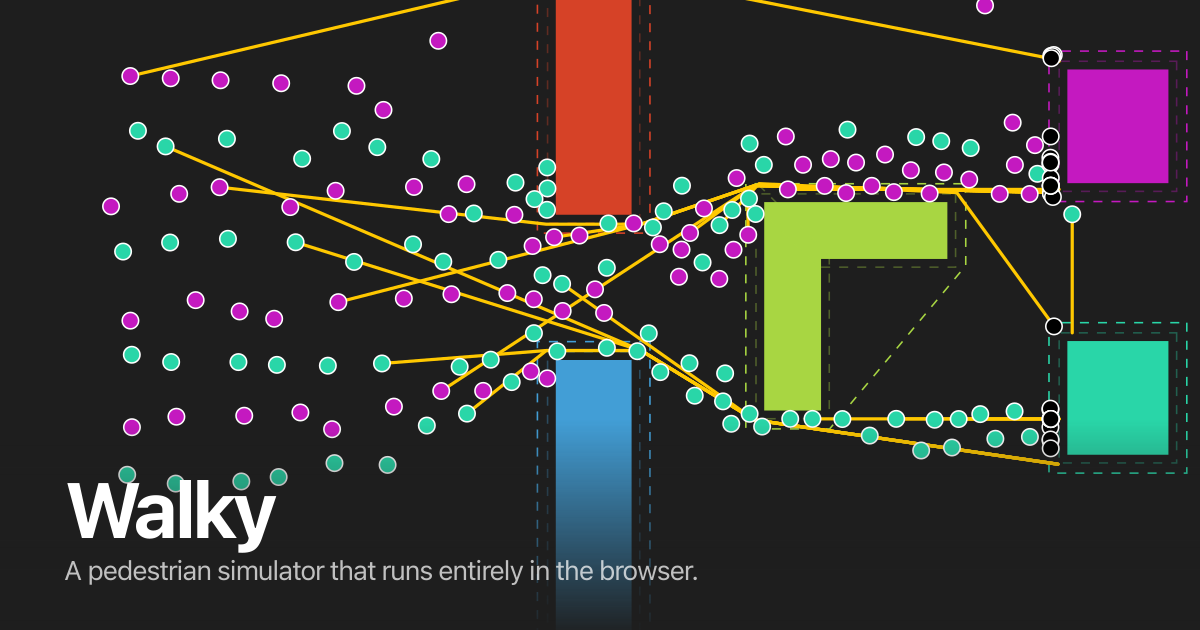
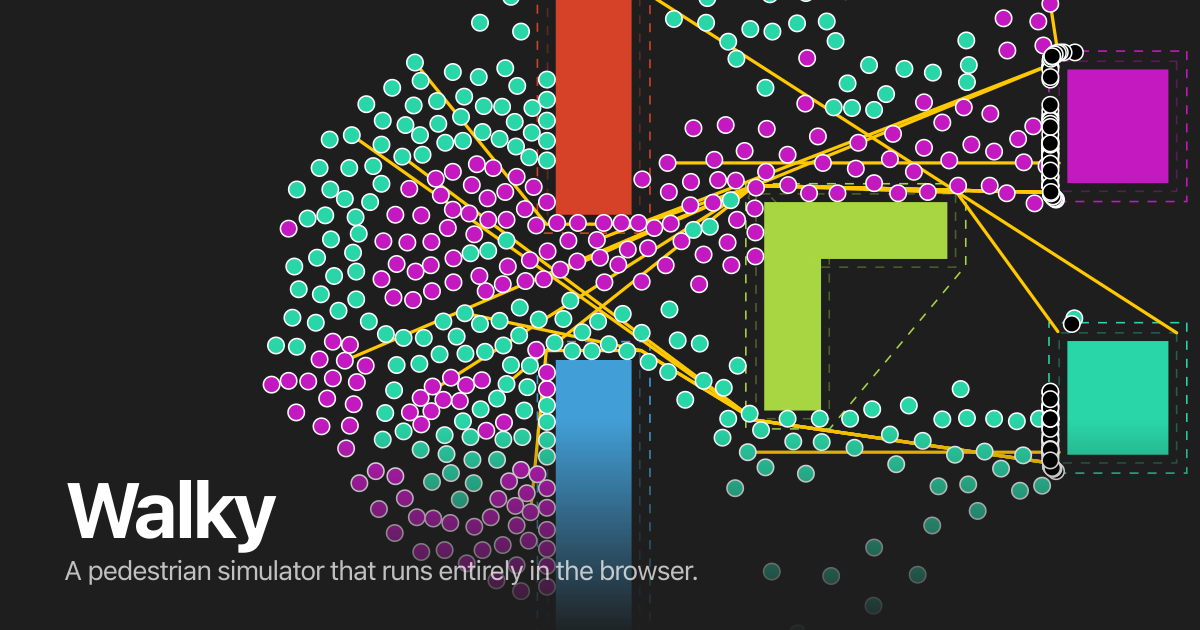
Reshoot the share card for the crowd that presses and breathes
The crowd rework moved what the picture is of. preferredSpace became
personalSpace and its default went 30 -> 40, and the brush stopped spacing a
block by it -- a crowd is painted shoulder to shoulder now and opens out to the
room it wants. The card was still a sparse lattice placed at the old pitch.

The script now reads pedestrianRadius, personalSpace and speed from
DEFAULT_SETTINGS instead of holding copies. The copies were correct when they
were written and silently wrong afterwards, which is the same failure as the
makeWall drift, minus the type error to catch it.

Painting packed also retires the jitter. It existed because a block on an exact
lattice walked unobstructed keeps that lattice, and reached the bottleneck in
machine-straight rows; a packed block breaks its own formation as it breathes.

Retuned around that: 544 pedestrians over 700 ticks, a queue long enough to keep
a tail in frame at the left while the leaders are arriving on the right.

diff --git a/tools/ogImage.ts b/tools/ogImage.ts
@@ -29,7 +29,7 @@ import { Agents, unpackRgb } from '../src/sim/agents.ts';
 import { Navigation } from '../src/sim/navigation.ts';
 import { SpatialHash } from '../src/sim/spatialHash.ts';
 import type { Point } from '../src/sim/geometry.ts';
-import { makeWall, rectanglePolygon, type Wall } from '../src/state/model.ts';
+import { DEFAULT_SETTINGS, makeWall, rectanglePolygon, type Wall } from '../src/state/model.ts';
 import { DASH } from '../src/render/overlay.ts';
 import { BACKGROUND, ORANGE, WHITE, toCss, type RGB } from '../src/palette.ts';
 import { LIME, MAGENTA, RUST, SKY, TEAL } from './brand.ts';
@@ -84,17 +84,23 @@ const SCALE = WIDTH / FRAME.w;
  */
 const STROKE_BOOST = 1.6;
 
-/** Simulation settings: the app's defaults, from DEFAULT_SETTINGS. */
-const RADIUS = 13;
-const PREFERRED = 30;
-const SPEED = 4;
+/**
+ * Read from DEFAULT_SETTINGS rather than copied out of it. Copies drift: these
+ * were transcribed once, and then personalSpace was renamed and its default moved
+ * from 30 to 40 while the copy sat here looking correct.
+ */
+const RADIUS = DEFAULT_SETTINGS.pedestrianRadius;
+const PERSONAL = DEFAULT_SETTINGS.personalSpace;
+const SPEED = DEFAULT_SETTINGS.speed;
 
 /**
- * Far enough in that the crowd has cleared its starting block and is streaming
- * through the gap, with the leaders already blackened at the goals -- and not so
- * far that everyone has arrived and the picture is a field of black dots.
+ * Far enough in that the crowd has opened out of its painted block and is packed
+ * against the bottleneck, with the leaders already blackened at the goals -- and
+ * not so far that everyone has arrived and the picture is a field of black dots.
+ * A queue this long is what keeps a tail of the crowd in frame at the left while
+ * the front is already arriving on the right.
  */
-const TICKS = 320;
+const TICKS = 700;
 
 /**
  * How many routes to draw.
@@ -143,25 +149,20 @@ function buildWorld(): { walls: Wall[]; nav: Navigation; goals: Wall[] } {
 
 function buildCrowd(nav: Navigation, goals: Wall[]): Agents {
   const agents = new Agents();
-  // The pitch the pedestrian brush uses: a full interaction diameter, so the
-  // block starts outside its own preferred spacing.
-  const pitch = 2 * (RADIUS + PREFERRED);
-  const cols = 24;
-  const rows = 8;
-  // Started off the left edge: by the time the frame is taken the block has walked
-  // into view and packed against the gap, which is the picture worth showing --
-  // a crowd still sitting in its painted lattice is just a grid of dots.
-  //
-  // The jitter matters more than it looks. A block that starts on an exact lattice
-  // and walks unobstructed keeps that lattice perfectly, so the tail of the queue
-  // arrives at the bottleneck still in machine-straight rows -- which reads as a
-  // rendering artefact rather than as a crowd. Nudging each start breaks the grid
-  // up front, and a crowd painted in several brush passes would not have been on
-  // one lattice to begin with.
-  const jitter = () => (Math.random() - 0.5) * pitch * 0.6;
+  // The pitch the pedestrian brush uses: shoulder to shoulder, and left to sort
+  // itself out. A crowd opens out to the room it wants within a second of being
+  // let go, so painting it packed is what the app actually does now -- and a
+  // packed block breaks its own formation as it breathes, which is why nothing
+  // here has to jitter the start to stop it marching in lockstep rows.
+  const pitch = 2 * RADIUS;
+  const cols = 34;
+  const rows = 16;
+  // Started left of the gap: by the time the frame is taken the block has opened
+  // out and packed against the bottleneck, which is the picture worth showing --
+  // a crowd still sitting in its painted square is just a block of dots.
   for (let i = 0; i < cols; i++) {
     for (let j = 0; j < rows; j++) {
-      const k = agents.add([-1080 + i * pitch + jitter(), 105 + j * pitch + jitter()]);
+      const k = agents.add([-900 + i * pitch, 210 + j * pitch]);
       // Split by row so both goals pull from the full height of the block and
       // the two colours interleave on the way to the gap.
       const goal = goals[j % 2];
@@ -170,7 +171,7 @@ function buildCrowd(nav: Navigation, goals: Wall[]): Agents {
   }
 
   const hash = new SpatialHash();
-  for (let t = 0; t < TICKS; t++) agents.step(nav, hash, SPEED, RADIUS, PREFERRED);
+  for (let t = 0; t < TICKS; t++) agents.step(nav, hash, SPEED, RADIUS, PERSONAL);
   return agents;
 }
 

diff --git a/README.md b/README.md
@@ -823,10 +823,15 @@ preview is looked at small rather than panned around: strokes are 1.6× wider, a
 22 routes are drawn rather than the app's cap of 1500. Colours, geometry and the
 9-on-9-off dash rhythm are untouched.
 
-The starting crowd is jittered off its lattice. A block placed on an exact grid
-and walked unobstructed keeps that grid exactly, so the tail of the queue reaches
-the bottleneck in machine-straight rows and the picture reads as a rendering
-artefact rather than as a crowd.
+The crowd is painted the way the brush paints one — shoulder to shoulder, at
+`2 × radius` — and 700 ticks is long enough that it has opened out to the room it
+wants and queued against the bottleneck, with the leaders arriving while a tail
+of it is still in frame on the left.
+
+The simulation settings are read from `DEFAULT_SETTINGS` rather than copied out
+of it. They were copied once, and then `preferredSpace` became `personalSpace`
+and its default moved 30 → 40 while the copy sat here looking perfectly
+plausible.
 
 `tools/` and `bench/` are type-checked with `src` rather than left out of it. The
 image script broke silently once when `makeWall` grew an options argument — it
